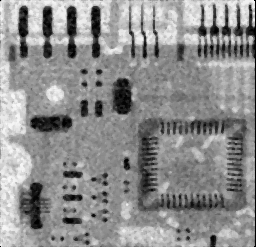
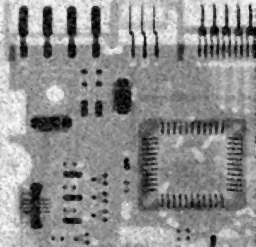
final improvement

diff --git a/labwork3/filter.py b/labwork3/filter.py
@@ -7,10 +7,9 @@ def padding_and_filter(image, kernel):
     kernel_size = kernel.shape[0]
     pad = kernel_size // 2
     # 对四周进行padding填充
-    padded_image = cv2.copyMakeBorder(image, pad, pad, pad, pad, cv2.BORDER_CONSTANT, value=0)
+    padded_image = cv2.copyMakeBorder(image, pad, pad, pad, pad, cv2.BORDER_DEFAULT)
 
     # 创建输出图像
-
     filtered_image = np.zeros_like(image)
 
     for i in range(height):
@@ -20,23 +19,22 @@ def padding_and_filter(image, kernel):
 
     return filtered_image
 
+
 def gaussian_filter(image, kernel_size=3, sigma=1.0):
     # 生成3*3大小高斯核
-
     ax = np.linspace(-(kernel_size // 2), kernel_size // 2, kernel_size)
     xx, yy = np.meshgrid(ax, ax)
     kernel = np.exp(-(xx**2 + yy**2) / (2 * sigma**2))
     # 归一化
     kernel = kernel / np.sum(kernel)
 
-    # 调用了二维卷积函数filter2D
     filtered_image = padding_and_filter(image, kernel)
     return filtered_image
 
 def median_filter(image, kernel_size=3):
     height,width = image.shape[:2]
     pad = kernel_size // 2
-    padded_image = cv2.copyMakeBorder(image, pad, pad, pad, pad, cv2.BORDER_CONSTANT, value=0)
+    padded_image = cv2.copyMakeBorder(image, pad, pad, pad, pad, cv2.BORDER_DEFAULT)
 
 
     filtered_image = np.zeros_like(image)
@@ -52,10 +50,10 @@ def median_filter(image, kernel_size=3):
 
 
 # 读取原始图像
-image1_1 = cv2.imread('./resources_labwork3/img1_1.png')
-image1_2 = cv2.imread('./resources_labwork3/img1_2.png')
-image2_1 = cv2.imread('./resources_labwork3/img2_1.png')
-image2_2 = cv2.imread('./resources_labwork3/img2_2.png')
+image1_1 = cv2.imread('./resources_labwork3/img1_1.png', cv2.IMREAD_GRAYSCALE)
+image1_2 = cv2.imread('./resources_labwork3/img1_2.png', cv2.IMREAD_GRAYSCALE)
+image2_1 = cv2.imread('./resources_labwork3/img2_1.png', cv2.IMREAD_GRAYSCALE)
+image2_2 = cv2.imread('./resources_labwork3/img2_2.png', cv2.IMREAD_GRAYSCALE)
 
 # 应用高斯滤波
 gaussian_filtered_image1_1 = gaussian_filter(image1_1)

diff --git a/labwork3/sharpen.py b/labwork3/sharpen.py
@@ -30,7 +30,7 @@ def laplacian_sharpen(image):
     if len(image.shape) == 3:
         image = cv2.cvtColor(image, cv2.COLOR_BGR2GRAY)
 
-    c= 2.0
+    c= -1.0
     laplacian = compute_laplacian(image)
     cv2.imwrite('./resources_labwork3/moon_laplacian.png', laplacian)
 
